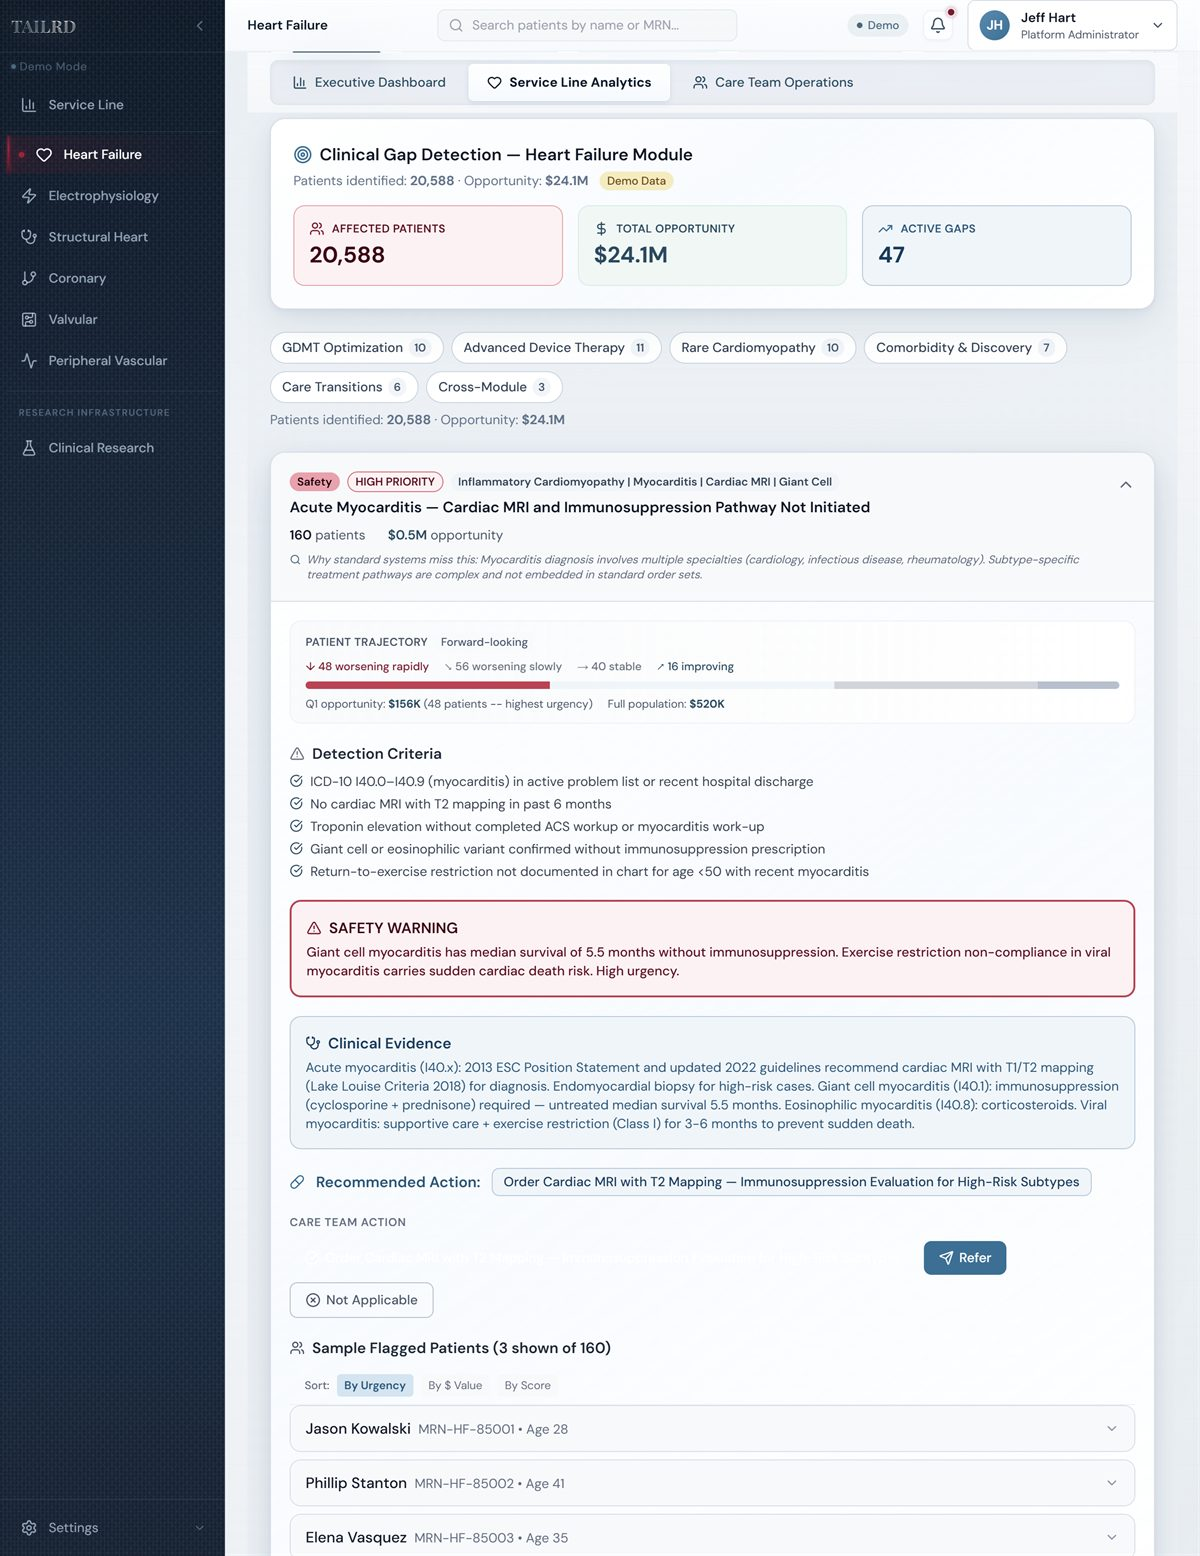
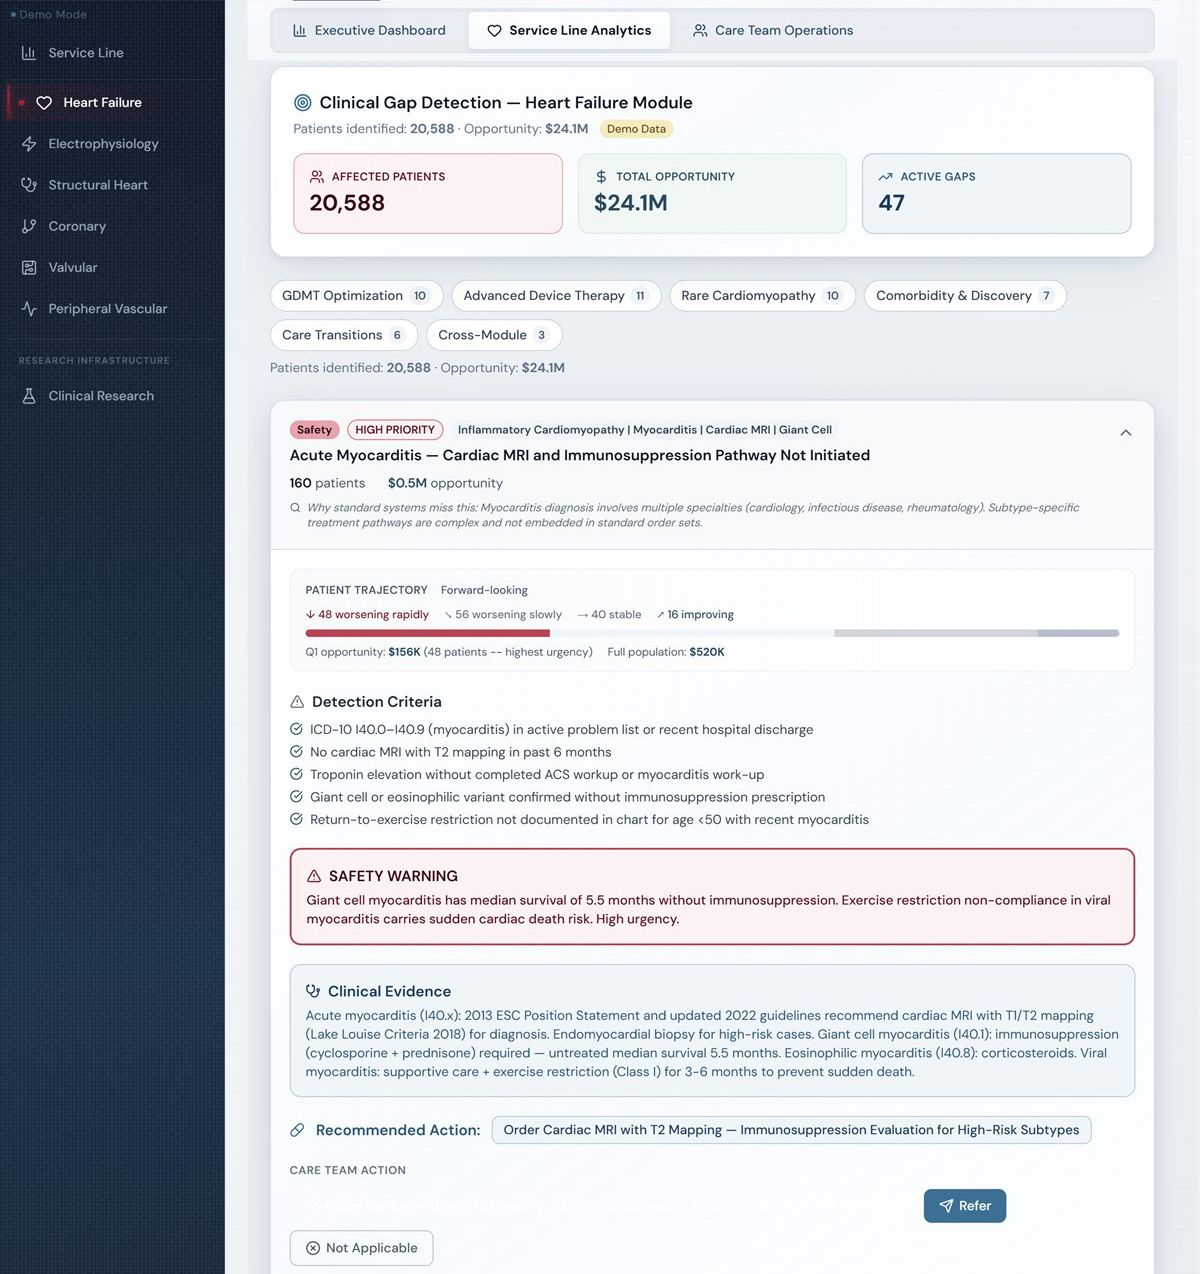
Batch A follow-ups: active gaps wording, demo labels, hero screenshot re-cropped without patient names or user header

diff --git a/index.html b/index.html
@@ -281,7 +281,7 @@
         <div class="module-body">
           <h3>Heart Failure</h3>
           <p>Surfaces untreated and undertreated HF patients before decompensation occurs.</p>
-          <p class="module-metric">47 algorithms · 20,588 patients · $24.1M opportunity · demo data</p>
+          <p class="module-metric">47 active gaps · 20,588 patients · $24.1M opportunity · demo data</p>
         </div>
       </article>
       <article class="module-card reveal">
@@ -329,7 +329,7 @@
         <div class="module-body">
           <h3>Clinical Research Assist</h3>
           <p>Automates registry abstraction and trial eligibility screening from live clinical data.</p>
-          <p class="module-metric">80% auto-fill · 212 abstraction hours saved / month</p>
+          <p class="module-metric">80% auto-fill · 212 abstraction hours saved / month · demo data</p>
         </div>
       </article>
     </div>
@@ -354,7 +354,7 @@
           <span class="tier-kicker">For leadership</span>
           <h3>Executive</h3>
           <p>Command center across all six modules — clinical gap intelligence, quality benchmarking, financial performance, and competitive market intelligence.</p>
-          <p class="tier-example">Example: Undiagnosed HFpEF, untreated AF, silent structural disease</p>
+          <p class="tier-example">Example: Undiagnosed HFpEF, untreated AF, silent structural disease · screenshot shows demo data</p>
         </div>
       </div>
       <div class="tier-row reveal">
